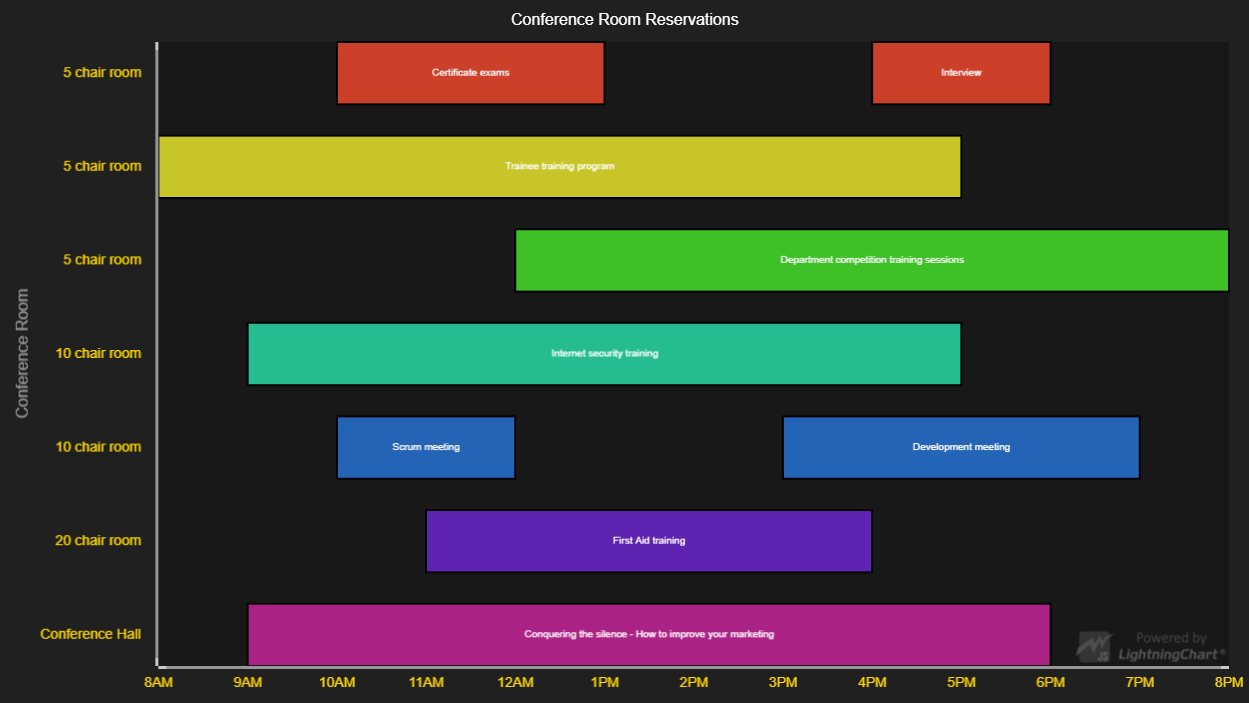
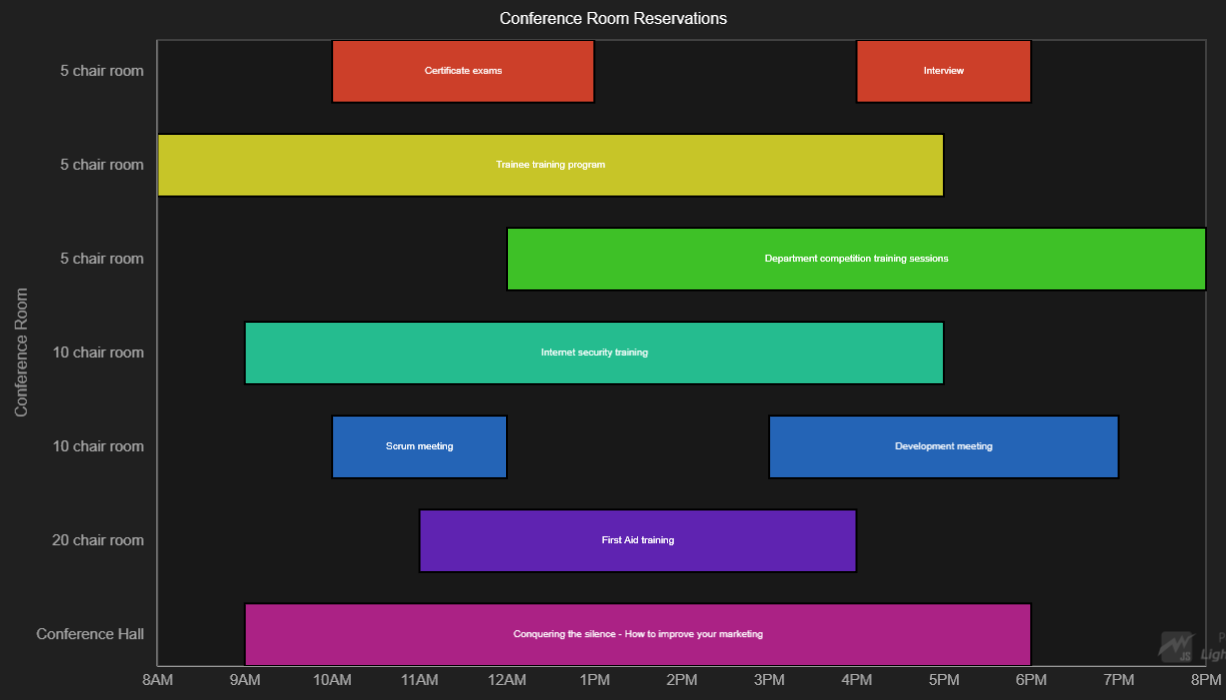
LCJS 2.0.0

diff --git a/src/index.js b/src/index.js
@@ -11,13 +11,14 @@ const {
     ColorRGBA,
     emptyLine,
     emptyFill,
-    emptyTick,
+    AxisTickStrategies,
     ColorPalettes,
     SolidLine,
     UIOrigins,
     UIElementBuilders,
     UILayoutBuilders,
-    UIDraggingModes
+    UIDraggingModes,
+    Themes
 } = lcjs
 
 const lc = lightningChart()
@@ -41,7 +42,9 @@ let spanChart
 {
     spanChart = () => {
         // Create a XY-Chart and add a RectSeries to it for rendering rectangles.
-        const chart = lc.ChartXY()
+        const chart = lc.ChartXY({
+            // theme: Themes.dark 
+        })
             .setTitle('Conference Room Reservations')
             .setMouseInteractions(false)
             // Disable default AutoCursor
@@ -52,13 +55,13 @@ let spanChart
         const axisX = chart.getDefaultAxisX()
             .setMouseInteractions(false)
             // Hide default ticks, instead rely on CustomTicks.
-            .setTickStyle(emptyTick)
+            .setTickStrategy(AxisTickStrategies.Empty)
 
         const axisY = chart.getDefaultAxisY()
             .setMouseInteractions(false)
             .setTitle('Conference Room')
             // Hide default ticks, instead rely on CustomTicks.
-            .setTickStyle(emptyTick)
+            .setTickStrategy(AxisTickStrategies.Empty)
 
         let y = 0
         for (let i = 8; i <= 20; i++) {
@@ -73,6 +76,7 @@ let spanChart
                         .setFillStyle(emptyFill)
                         .setStrokeStyle(emptyLine)
                     )
+                    .setTextFillStyle(new SolidFill({ color: ColorRGBA(170, 170, 170) }))
                 )
         }
 
@@ -142,6 +146,7 @@ let spanChart
                         .setFillStyle(emptyFill)
                         .setStrokeStyle(emptyLine)
                     )
+                    .setTextFillStyle(new SolidFill({ color: ColorRGBA(170, 170, 170) }))
                 )
             y -= figureHeight * 1.5
 

diff --git a/README.md b/README.md
@@ -46,16 +46,16 @@ The actual Span Chart logic just serves to provide a starting point for users to
 
 ## API Links
 
-* XY cartesian chart: [ChartXY]
-* Rectangle series: [RectangleSeries]
-* Axis: [Axis]
-* Empty TickStyle: [emptyTick]
-* Solid FillStyle: [SolidFill]
-* Empty FillStyle: [emptyFill]
-* Solid LineStyle: [SolidLine]
-* Empty LineStyle: [emptyLine]
-* RGBA color factory: [ColorRGBA]
-* Color palettes: [ColorPalettes]
+* [XY cartesian chart]
+* [Rectangle series]
+* [Axis]
+* [Empty TickStyle]
+* [Solid FillStyle]
+* [Empty FillStyle]
+* [Solid LineStyle]
+* [Empty LineStyle]
+* [RGBA color factory]
+* [Color palettes]
 
 
 ## Support
@@ -79,14 +79,14 @@ Direct developer email support can be purchased through a [Support Plan][4] or b
 © Arction Ltd 2009-2020. All rights reserved.
 
 
-[ChartXY]: https://www.arction.com/lightningchart-js-api-documentation/v1.3.0/classes/chartxy.html
-[RectangleSeries]: https://www.arction.com/lightningchart-js-api-documentation/v1.3.0/classes/rectangleseries.html
-[Axis]: https://www.arction.com/lightningchart-js-api-documentation/v1.3.0/classes/axis.html
-[emptyTick]: https://www.arction.com/lightningchart-js-api-documentation/v1.3.0/globals.html#emptytick
-[SolidFill]: https://www.arction.com/lightningchart-js-api-documentation/v1.3.0/classes/solidfill.html
-[emptyFill]: https://www.arction.com/lightningchart-js-api-documentation/v1.3.0/globals.html#emptyfill
-[SolidLine]: https://www.arction.com/lightningchart-js-api-documentation/v1.3.0/classes/solidline.html
-[emptyLine]: https://www.arction.com/lightningchart-js-api-documentation/v1.3.0/globals.html#emptyline
-[ColorRGBA]: https://www.arction.com/lightningchart-js-api-documentation/v1.3.0/globals.html#colorrgba
-[ColorPalettes]: https://www.arction.com/lightningchart-js-api-documentation/v1.3.0/globals.html#colorpalettes
+[XY cartesian chart]: https://www.arction.com/lightningchart-js-api-documentation/v2.0.0/classes/chartxy.html
+[Rectangle series]: https://www.arction.com/lightningchart-js-api-documentation/v2.0.0/classes/rectangleseries.html
+[Axis]: https://www.arction.com/lightningchart-js-api-documentation/v2.0.0/classes/axis.html
+[Empty TickStyle]: https://www.arction.com/lightningchart-js-api-documentation/v2.0.0/globals.html#emptytick
+[Solid FillStyle]: https://www.arction.com/lightningchart-js-api-documentation/v2.0.0/classes/solidfill.html
+[Empty FillStyle]: https://www.arction.com/lightningchart-js-api-documentation/v2.0.0/globals.html#emptyfill
+[Solid LineStyle]: https://www.arction.com/lightningchart-js-api-documentation/v2.0.0/classes/solidline.html
+[Empty LineStyle]: https://www.arction.com/lightningchart-js-api-documentation/v2.0.0/globals.html#emptyline
+[RGBA color factory]: https://www.arction.com/lightningchart-js-api-documentation/v2.0.0/globals.html#colorrgba
+[Color palettes]: https://www.arction.com/lightningchart-js-api-documentation/v2.0.0/globals.html#colorpalettes
 
